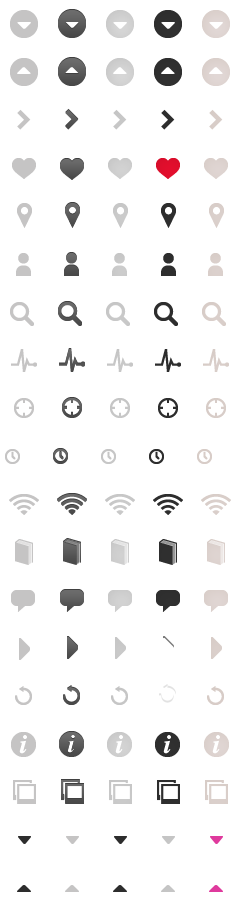
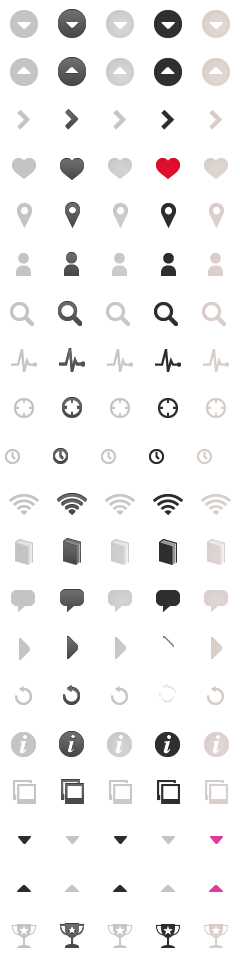
tweaks for UI bars and dropdown menu for comps

diff --git a/theme/snapr/css/theme.css b/theme/snapr/css/theme.css
@@ -801,6 +801,12 @@
 .ui-bar-icons.ui-icon-arrow-d {
   background-position: 0 -544px;
 }
+.ui-bar .ui-icon-comp,
+.ui-bar-icons .ui-icon-comp,
+.ui-bar.ui-icon-comp,
+.ui-bar-icons.ui-icon-comp {
+  background-position: 0 -608px;
+}
 .ui-bar.ui-bar-b .ui-icon-open,
 .ui-bar-icons.ui-bar-b .ui-icon-open,
 .ui-bar.ui-btn-up-b .ui-icon-open,
@@ -1161,6 +1167,24 @@
 .ui-bar-icons.ui-btn-down-b.ui-icon-arrow-d {
   background-position: -32px -544px;
 }
+.ui-bar.ui-bar-b .ui-icon-comp,
+.ui-bar-icons.ui-bar-b .ui-icon-comp,
+.ui-bar.ui-btn-up-b .ui-icon-comp,
+.ui-bar-icons.ui-btn-up-b .ui-icon-comp,
+.ui-bar.ui-btn-hover-b .ui-icon-comp,
+.ui-bar-icons.ui-btn-hover-b .ui-icon-comp,
+.ui-bar.ui-btn-down-b .ui-icon-comp,
+.ui-bar-icons.ui-btn-down-b .ui-icon-comp,
+.ui-bar.ui-bar-b.ui-icon-comp,
+.ui-bar-icons.ui-bar-b.ui-icon-comp,
+.ui-bar.ui-btn-up-b.ui-icon-comp,
+.ui-bar-icons.ui-btn-up-b.ui-icon-comp,
+.ui-bar.ui-btn-hover-b.ui-icon-comp,
+.ui-bar-icons.ui-btn-hover-b.ui-icon-comp,
+.ui-bar.ui-btn-down-b.ui-icon-comp,
+.ui-bar-icons.ui-btn-down-b.ui-icon-comp {
+  background-position: -32px -608px;
+}
 .ui-bar.ui-bar-e .ui-icon-open,
 .ui-bar-icons.ui-bar-e .ui-icon-open,
 .ui-bar.ui-btn-up-e .ui-icon-open,
@@ -1177,7 +1201,7 @@
 .ui-bar-icons.ui-btn-hover-e.ui-icon-open,
 .ui-bar.ui-btn-down-e.ui-icon-open,
 .ui-bar-icons.ui-btn-down-e.ui-icon-open {
-  background-position: -128px 0px;
+  background-position: -128px -544px;
 }
 .ui-bar.ui-bar-e .ui-icon-closed,
 .ui-bar-icons.ui-bar-e .ui-icon-closed,
@@ -1195,7 +1219,7 @@
 .ui-bar-icons.ui-btn-hover-e.ui-icon-closed,
 .ui-bar.ui-btn-down-e.ui-icon-closed,
 .ui-bar-icons.ui-btn-down-e.ui-icon-closed {
-  background-position: -128px -32px;
+  background-position: -128px -576px;
 }
 .ui-bar.ui-bar-e .ui-icon-arrow-r,
 .ui-bar-icons.ui-bar-e .ui-icon-arrow-r,
@@ -1520,6 +1544,24 @@
 .ui-bar.ui-btn-down-e.ui-icon-arrow-d,
 .ui-bar-icons.ui-btn-down-e.ui-icon-arrow-d {
   background-position: -128px -544px;
+}
+.ui-bar.ui-bar-e .ui-icon-comp,
+.ui-bar-icons.ui-bar-e .ui-icon-comp,
+.ui-bar.ui-btn-up-e .ui-icon-comp,
+.ui-bar-icons.ui-btn-up-e .ui-icon-comp,
+.ui-bar.ui-btn-hover-e .ui-icon-comp,
+.ui-bar-icons.ui-btn-hover-e .ui-icon-comp,
+.ui-bar.ui-btn-down-e .ui-icon-comp,
+.ui-bar-icons.ui-btn-down-e .ui-icon-comp,
+.ui-bar.ui-bar-e.ui-icon-comp,
+.ui-bar-icons.ui-bar-e.ui-icon-comp,
+.ui-bar.ui-btn-up-e.ui-icon-comp,
+.ui-bar-icons.ui-btn-up-e.ui-icon-comp,
+.ui-bar.ui-btn-hover-e.ui-icon-comp,
+.ui-bar-icons.ui-btn-hover-e.ui-icon-comp,
+.ui-bar.ui-btn-down-e.ui-icon-comp,
+.ui-bar-icons.ui-btn-down-e.ui-icon-comp {
+  background-position: -128px -608px;
 }
 .ui-bar.ui-bar-f .ui-icon-play,
 .ui-bar-icons.ui-bar-f .ui-icon-play,
@@ -3998,8 +4040,44 @@ a:active {
 .x-closed .ui-bar .ui-icon-open {
   background-position: 0 -32px;
 }
-.x-closed .ui-bar.ui-btn-up-e .ui-icon-open {
-  background-position: -128px -32px;
+.x-closed .ui-bar.ui-btn-up-e .ui-icon-open,
+.x-closed .ui-bar.ui-btn-hover-e .ui-icon-open {
+  background-position: -128px -576px;
+}
+.x-app-banner .x-closed .ui-bar {
+  -webkit-border-bottom-right-radius: 0;
+  -moz-border-radius-bottomright: 0;
+  border-bottom-right-radius: 0;
+  -webkit-border-bottom-left-radius: 0;
+  -moz-border-radius-bottomleft: 0;
+  border-bottom-left-radius: 0;
+}
+.x-app-banner .x-closed .ui-bar .s-bar-left {
+  -webkit-border-top-right-radius: 0;
+  -moz-border-radius-topright: 0;
+  border-top-right-radius: 0;
+  -webkit-border-bottom-right-radius: 0;
+  -moz-border-radius-bottomright: 0;
+  border-bottom-right-radius: 0;
+  -webkit-border-bottom-left-radius: 0 !important;
+  -moz-border-radius-bottomleft: 0 !important;
+  border-bottom-left-radius: 0 !important;
+}
+.x-app-banner .x-closed .ui-bar .s-bar-right {
+  -webkit-border-top-right-radius: 6px !important;
+  -moz-border-radius-topright: 6px !important;
+  border-top-right-radius: 6px !important;
+  -webkit-border-bottom-right-radius: 0 !important;
+  -moz-border-radius-bottomright: 0 !important;
+  border-bottom-right-radius: 0 !important;
+}
+.x-has-banner .x-feed-header .ui-bar {
+  -webkit-border-top-right-radius: 0;
+  -moz-border-radius-topright: 0;
+  border-top-right-radius: 0;
+  -webkit-border-top-left-radius: 0;
+  -moz-border-radius-topleft: 0;
+  border-top-left-radius: 0;
 }
 .x-has-dropdown.s-ui-bar-dropdown.ui-bar .ui-btn-inner .ui-btn-text .ui-icon-arrow-d {
   display: inline-block;
@@ -7401,10 +7479,10 @@ div.ps-carousel-item-loading {
   .ui-bar.ui-icon,
   .ui-bar-icons.ui-icon {
     background-image: url('../gfx/hdpi/ui-bar-icons.png');
-    -webkit-background-size: 160px 608px;
-    -moz-background-size: 160px 608px;
-    -o-background-size: 160px 608px;
-    background-size: 160px 608px;
+    -webkit-background-size: 160px 640px;
+    -moz-background-size: 160px 640px;
+    -o-background-size: 160px 640px;
+    background-size: 160px 640px;
   }
   .ui-icon.tumblr-icon {
     background-image: url('../gfx/hdpi/tumblr-post-icons.png');
@@ -7754,10 +7832,10 @@ div.ps-carousel-item-loading {
   .ui-bar.ui-icon,
   .ui-bar-icons.ui-icon {
     background-image: url('../gfx/retina/ui-bar-icons.png');
-    -webkit-background-size: 160px 608px;
-    -moz-background-size: 160px 608px;
-    -o-background-size: 160px 608px;
-    background-size: 160px 608px;
+    -webkit-background-size: 160px 640px;
+    -moz-background-size: 160px 640px;
+    -o-background-size: 160px 640px;
+    background-size: 160px 640px;
   }
   .ui-icon.tumblr-icon {
     background-image: url('../gfx/retina/tumblr-post-icons.png');

diff --git a/theme/snapr/css/icons.less b/theme/snapr/css/icons.less
@@ -260,6 +260,8 @@
     .ui-icon-photos,&.ui-icon-photos{background-position: @gfxBar-x @gfxBar-photos-y;}
     .ui-icon-arrow-u,&.ui-icon-arrow-u{background-position: @gfxBar-x @gfxBar-arrow-u-y;}
     .ui-icon-arrow-d,&.ui-icon-arrow-d{background-position: @gfxBar-x @gfxBar-arrow-d-y;}
+    .ui-icon-comp,&.ui-icon-comp{background-position: @gfxBar-x @gfxBar-comp-y;}
+
       
     &.ui-bar-a{
     }
@@ -288,6 +290,7 @@
               .ui-icon-photos,&.ui-icon-photos{background-position: @gfxBar-x-b @gfxBar-photos-y;}
               .ui-icon-arrow-u,&.ui-icon-arrow-u{background-position: @gfxBar-x-b @gfxBar-arrow-u-y;}
               .ui-icon-arrow-d,&.ui-icon-arrow-d{background-position: @gfxBar-x-b @gfxBar-arrow-d-y;}
+              .ui-icon-comp,&.ui-icon-comp{background-position: @gfxBar-x-b @gfxBar-comp-y;}
 
        }
     
@@ -295,8 +298,8 @@
     &.ui-btn-up-e,
     &.ui-btn-hover-e,
     &.ui-btn-down-e{
-        .ui-icon-open,&.ui-icon-open{background-position: @gfxBar-x-e @gfxBar-open-y;}
-           .ui-icon-closed,&.ui-icon-closed{background-position: @gfxBar-x-e @gfxBar-closed-y;}
+        .ui-icon-open,&.ui-icon-open{background-position: @gfxBar-x-e @gfxBar-arrow-d-y;}
+           .ui-icon-closed,&.ui-icon-closed{background-position: @gfxBar-x-e @gfxBar-arrow-u-y;}
            .ui-icon-arrow-r,&.ui-icon-arrow-r{background-position: @gfxBar-x-e @gfxBar-arrowR-y;}
            .ui-icon-heart,&.ui-icon-heart{background-position: @gfxBar-x-e @gfxBar-heart-y;}
            .ui-icon-venue,&.ui-icon-venue{background-position: @gfxBar-x-e @gfxBar-venue-y;}
@@ -315,6 +318,7 @@
            .ui-icon-photos,&.ui-icon-photos{background-position: @gfxBar-x-e @gfxBar-photos-y;}
            .ui-icon-arrow-u,&.ui-icon-arrow-u{background-position: @gfxBar-x-e @gfxBar-arrow-u-y;}
            .ui-icon-arrow-d,&.ui-icon-arrow-d{background-position: @gfxBar-x-e @gfxBar-arrow-d-y;}
+           .ui-icon-comp,&.ui-icon-comp{background-position: @gfxBar-x-e @gfxBar-comp-y;}
            
     }
     

diff --git a/theme/snapr/css/main.less b/theme/snapr/css/main.less
@@ -343,11 +343,37 @@ a:active{
         .ui-icon-open{
             background-position: @gfxBar-x @gfxBar-closed-y;
         }
-        &.ui-btn-up-e{
+        &.ui-btn-up-e,
+        &.ui-btn-hover-e{
             .ui-icon-open{
-                background-position: @gfxBar-x-e @gfxBar-closed-y;
+                background-position: @gfxBar-x-e @gfxBar-arrow-u-y;
             }  
         }     
+    }
+}
+
+.x-app-banner{
+    .x-closed{
+        .ui-bar{
+           .border-bottom-radius(0);  
+            .s-bar-left{
+                .border-right-radius(0);
+                .border-bottom-left-radius(0)!important;
+            }
+            .s-bar-right{
+                .border-top-right-radius(@corners)!important;
+                .border-bottom-right-radius(0)!important;
+            } 
+              
+        }
+    }
+}
+
+.x-has-banner{
+    .x-feed-header{
+        .ui-bar{
+           .border-top-radius(0);
+       } 
     }
 }
 

diff --git a/theme/snapr/css/sprites.less b/theme/snapr/css/sprites.less
@@ -202,7 +202,7 @@
 // -------------------------
 @gfxBar:                'ui-bar-icons.png';
 @gfxBar-width:          160px;
-@gfxBar-height:         608px;
+@gfxBar-height:         640px;
 @gfxBar-grid:           32px;
 
 
@@ -225,7 +225,7 @@
 @gfxBar-photos-y:       -16 * @gfxBar-grid;
 @gfxBar-arrow-d-y:      -17 * @gfxBar-grid;
 @gfxBar-arrow-u-y:      -18 * @gfxBar-grid;
-
+@gfxBar-comp-y:         -19 * @gfxBar-grid;
 
 @gfxBar-x-a:            -0 * @gfxBar-grid;
 @gfxBar-x-b:            -1 * @gfxBar-grid;

diff --git a/theme/snapr/config.js b/theme/snapr/config.js
@@ -181,6 +181,12 @@ return {
                 icon: "heart",
                 label: "Popular",
                 show_for: "all"
+            },
+            {
+                url: "#/competitions/",
+                icon: "comp",
+                label: "Competitions",
+                show_for: "all"
             }
         ],
 
